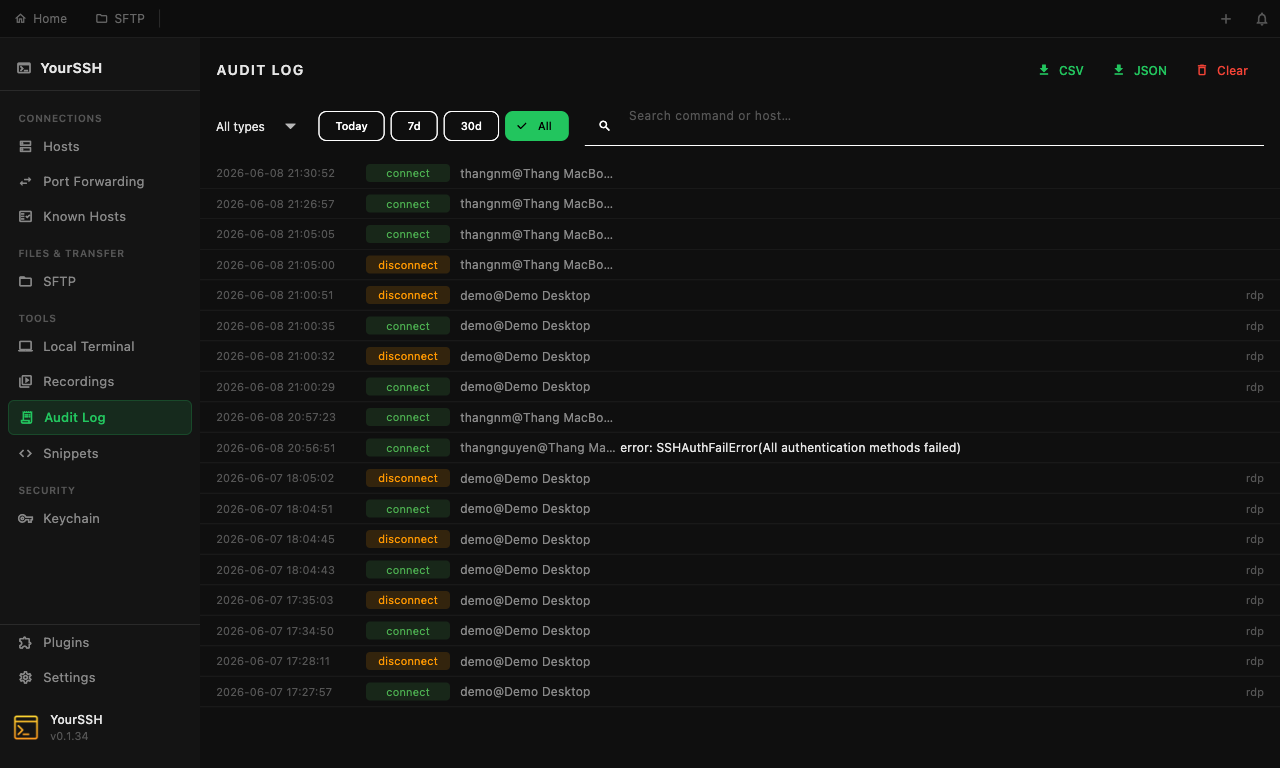
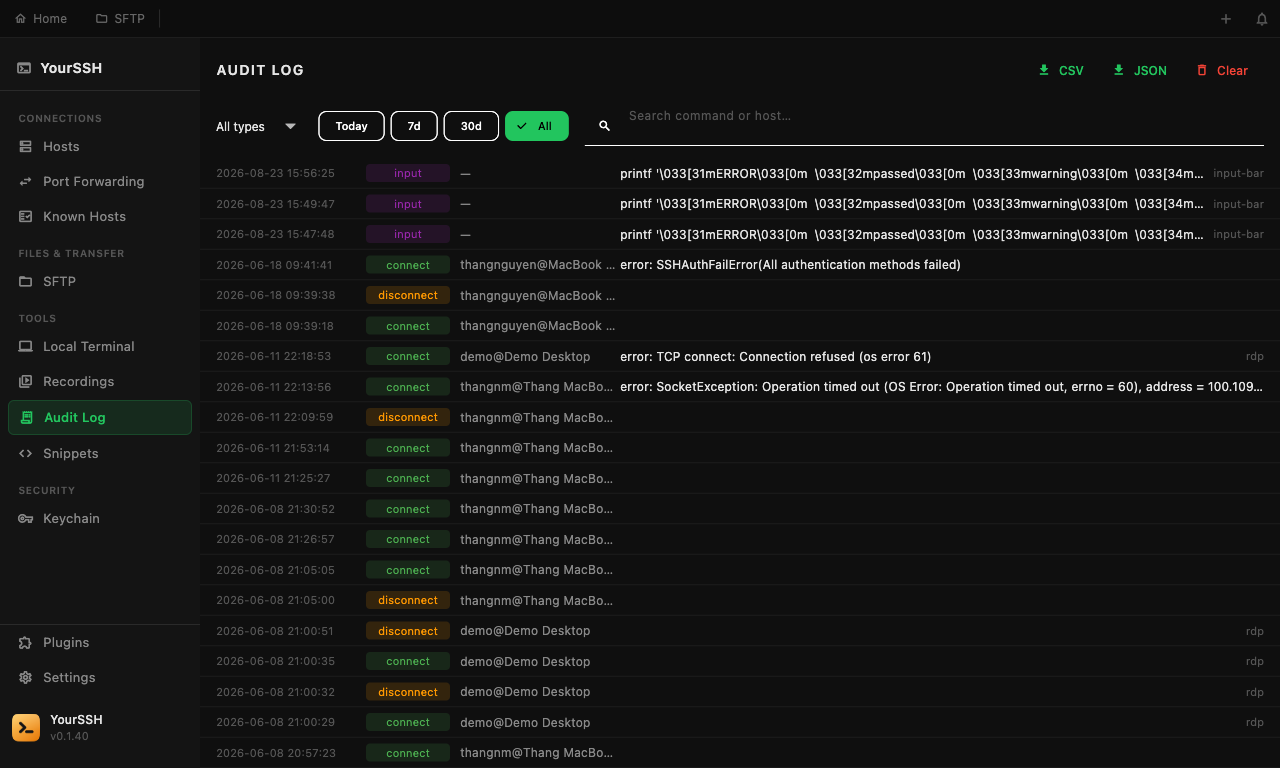
fix(test): point the screenshot harness at the real output paths
The recording-library and audit-log snaps wrote to
screenshots/09-recording/ and a flat screenshots/audit-log.png. Neither
path is read by the README, so those two images silently went stale
while every run dropped two untracked files in the repo. Point both at
screenshots/10-audit-recording/ under the filenames the README uses,
and refresh them.

Also derive the output root from the repo (walk up from the CWD to the
.git marker, handling the worktree file case) instead of hardcoding an
absolute path that only resolves on one machine, and assert at the end
of the run that every screenshot the README references exists -- the
check that would have caught this drift when it was introduced.

Closes #107

diff --git a/app/integration_test/feature_screenshots_test.dart b/app/integration_test/feature_screenshots_test.dart
@@ -18,16 +18,34 @@ import 'package:yourssh/main.dart' as app;
 import 'package:yourssh/models/host.dart';
 import 'package:yourssh/services/storage_service.dart';
 
-const _outDir = '/Users/thangnguyen/Projects/Personal/yourssh/screenshots';
+/// Repo root, walked up from the CWD — `flutter test -d macos` runs from
+/// `app/`, but the harness is also invoked from the repo root. `.git` is a
+/// directory in a normal clone and a file inside a worktree.
+String _findRepoRoot() {
+  var dir = Directory.current;
+  while (true) {
+    final marker = '${dir.path}/.git';
+    if (Directory(marker).existsSync() || File(marker).existsSync()) {
+      return dir.path;
+    }
+    final parent = dir.parent;
+    if (parent.path == dir.path) {
+      throw StateError('no .git found above ${Directory.current.path}');
+    }
+    dir = parent;
+  }
+}
+
+final _outDir = '${_findRepoRoot()}/screenshots';
 
 // Screenshot folder groups
-const _g1 = '$_outDir/01-terminal-ssh';
-const _g2 = '$_outDir/02-sftp';
-const _g3 = '$_outDir/03-port-forwarding';
-const _g4 = '$_outDir/04-credentials-security';
-const _g5 = '$_outDir/05-settings';
-const _g6 = '$_outDir/06-plugins';
-const _g9 = '$_outDir/09-recording';
+final _g1 = '$_outDir/01-terminal-ssh';
+final _g2 = '$_outDir/02-sftp';
+final _g3 = '$_outDir/03-port-forwarding';
+final _g4 = '$_outDir/04-credentials-security';
+final _g5 = '$_outDir/05-settings';
+final _g6 = '$_outDir/06-plugins';
+final _g10 = '$_outDir/10-audit-recording';
 
 Future<void> _snap(WidgetTester tester, String path) async {
   await tester.pump(const Duration(milliseconds: 200));
@@ -65,12 +83,28 @@ Future<void> _navTo(WidgetTester tester, String label) async {
   await tester.pump(const Duration(milliseconds: 400));
 }
 
+/// Fail the run if README references a screenshot that is not on disk.
+void _expectReadmeScreenshotsExist() {
+  final readme = File('${_findRepoRoot()}/README.md');
+  if (!readme.existsSync()) return;
+  final referenced = RegExp(r'screenshots/[^"\s)]+\.png')
+      .allMatches(readme.readAsStringSync())
+      .map((m) => m.group(0)!)
+      .toSet();
+  final missing = referenced
+      .where((rel) => !File('${_findRepoRoot()}/$rel').existsSync())
+      .toList()
+    ..sort();
+  expect(missing, isEmpty,
+      reason: 'README references screenshots that do not exist: $missing');
+}
+
 void main() {
   IntegrationTestWidgetsFlutterBinding.ensureInitialized();
 
   testWidgets('capture feature screenshots', (tester) async {
     // Create output directories
-    for (final d in [_g1, _g2, _g3, _g4, _g5, _g6, _g9]) {
+    for (final d in [_g1, _g2, _g3, _g4, _g5, _g6, _g10]) {
       Directory(d).createSync(recursive: true);
     }
 
@@ -246,18 +280,22 @@ void main() {
       // ── 9. RECORDING ─────────────────────────────────────────────────────
       await _navTo(tester, 'Recordings');
       await tester.pump(const Duration(milliseconds: 500));
-      await _snap(tester, '$_g9/01-recording-library.png');
+      await _snap(tester, '$_g10/02-recording-library.png');
 
       // ── Audit Log ────────────────────────────────────────────────────────
       await _navTo(tester, 'Audit Log');
       await tester.pump(const Duration(milliseconds: 500));
-      await _snap(tester, '$_outDir/audit-log.png');
+      await _snap(tester, '$_g10/01-audit-log.png');
 
       // ── Back to Hosts — dashboard with RDP badge visible ─────────────────
       await _navTo(tester, 'Hosts');
       await tester.pump(const Duration(milliseconds: 400));
       await _snap(tester, '$_g1/04-dashboard-with-rdp-badge.png');
 
+      // Every screenshot the README displays must exist on disk. Snap paths
+      // have drifted from the README's before (the audit-log and recording
+      // shots wrote to folders nobody reads), and nothing caught it.
+      _expectReadmeScreenshotsExist();
     } finally {
       // Restore user data
       if (backupHosts != null) {

diff --git a/CHANGELOG.md b/CHANGELOG.md
@@ -7,6 +7,9 @@ and this project adheres to [Semantic Versioning](https://semver.org/spec/v2.0.0
 
 ## [Unreleased]
 
+### Fixed
+- **Screenshot harness wrote two shots to stale paths** — the recording-library and audit-log captures went to `screenshots/09-recording/` and a flat `screenshots/audit-log.png`, neither of which the README reads, so those two images silently went stale while every run left untracked files behind. Both now write into `screenshots/10-audit-recording/` under the filenames the README references. The output root is also derived from the repo (walked up from the CWD) instead of one developer's absolute home path, and the run now fails if the README references a screenshot that is not on disk.
+
 ### Changed
 - **New app icon** — the launcher artwork is redrawn as a vector master instead of hand-exported bitmaps: an amber squircle (superellipse corners) with a chunky `>_` prompt glyph that stays legible down to 16 px. `tool/gen_app_icons.py` regenerates every platform target from `assets/branding/*.svg` — macOS iconset (inset to Apple's 824/1024 grid), a 16–256 px Windows `.ico`, Android adaptive layers (gradient background drawable, foreground inside the 66dp safe circle, plus an Android 13+ themed/monochrome layer), and the in-app / README logos
 
